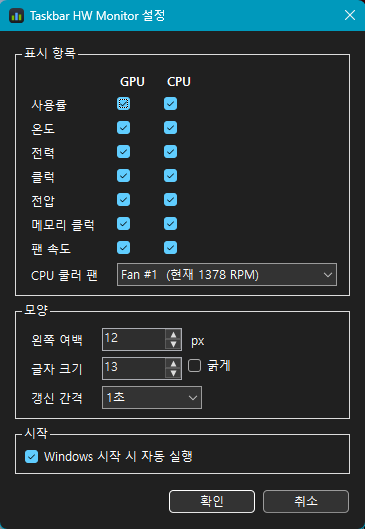
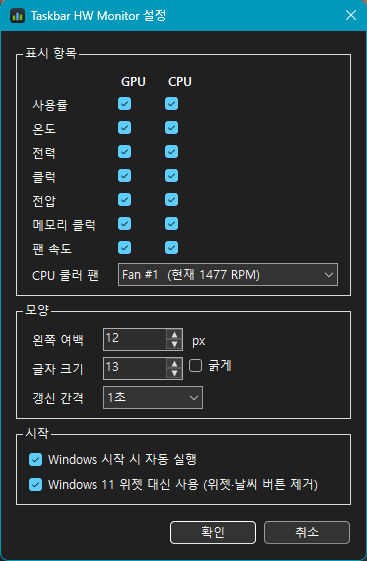
v1.1.0: Windows 11 위젯 대체 옵션
- 설치 옵션·설정 창에서 위젯 정책 끄기 + Web Experience Pack 제거 + 탐색기 재시작
- 앱 제거 시 이 앱이 제거한 경우에만 위젯 복원 (Store 페이지 안내)
- 왼쪽 정렬 태스크바에서는 알림 영역 왼쪽에 표시

Changed region(s): [[0.0, 0.0, 1.0, 0.9679], [0.0, 0.0605, 1.0, 1.0], [0.6932, 0.9376, 0.7233, 0.9679]]

diff --git a/app/Widgets.cs b/app/Widgets.cs
@@ -1,0 +1,95 @@
+using System.Diagnostics;
+using Microsoft.Win32;
+
+namespace TaskbarHwMon;
+
+/// <summary>
+/// Windows 11 위젯(날씨 버튼) 제거·복원. 위젯 버튼 자리를 이 앱이 대신 쓰도록 한다.
+/// 제거: 정책 AllowNewsAndInterests=0 + Windows Web Experience Pack 제거 + 탐색기 재시작.
+/// 복원: 이 앱이 제거한 경우에만 정책을 되돌리고, 패키지가 없으면 Microsoft Store 페이지를 연다.
+/// </summary>
+static class Widgets
+{
+    const string PolicyKey = @"SOFTWARE\Policies\Microsoft\Dsh";
+    const string PolicyValue = "AllowNewsAndInterests";
+    const string MarkerKey = @"SOFTWARE\TaskbarHwMon";
+    const string MarkerValue = "ReplacedWidgets";
+    const string StoreProductId = "9MSSGKG348SP"; // Windows Web Experience Pack
+
+    public static bool IsDisabled()
+    {
+        using var k = Registry.LocalMachine.OpenSubKey(PolicyKey);
+        return k?.GetValue(PolicyValue) is int v && v == 0;
+    }
+
+    static bool ReplacedByUs()
+    {
+        using var k = Registry.LocalMachine.OpenSubKey(MarkerKey);
+        return k?.GetValue(MarkerValue) is int v && v == 1;
+    }
+
+    public static void Replace()
+    {
+        using (var k = Registry.LocalMachine.CreateSubKey(PolicyKey))
+            k.SetValue(PolicyValue, 0, RegistryValueKind.DWord);
+        using (var k = Registry.LocalMachine.CreateSubKey(MarkerKey))
+            k.SetValue(MarkerValue, 1, RegistryValueKind.DWord);
+
+        // Appx 모듈은 Windows PowerShell 5.1에서 바로 동작
+        PowerShell("""
+            Get-Process Widgets, WidgetService -ErrorAction SilentlyContinue | Stop-Process -Force
+            Get-AppxPackage -AllUsers *WebExperience* | Remove-AppxPackage -AllUsers -ErrorAction SilentlyContinue
+            Get-AppxProvisionedPackage -Online | Where-Object DisplayName -like '*WebExperience*' |
+                Remove-AppxProvisionedPackage -Online -ErrorAction SilentlyContinue | Out-Null
+            """);
+        RestartExplorer();
+    }
+
+    /// <param name="onlyIfOurs">제거 시: 이 앱이 위젯을 없앤 경우에만 되돌린다.</param>
+    public static void Restore(bool onlyIfOurs)
+    {
+        if (onlyIfOurs && !ReplacedByUs()) return;
+
+        using (var k = Registry.LocalMachine.OpenSubKey(PolicyKey, writable: true))
+            k?.DeleteValue(PolicyValue, throwOnMissingValue: false);
+        Registry.LocalMachine.DeleteSubKeyTree(MarkerKey, throwOnMissingSubKey: false);
+        RestartExplorer();
+
+        if (PowerShell("if (Get-AppxPackage -AllUsers *WebExperience*) { exit 0 } else { exit 1 }") != 0)
+        {
+            try { Process.Start(new ProcessStartInfo($"ms-windows-store://pdp/?ProductId={StoreProductId}") { UseShellExecute = true }); }
+            catch { }
+        }
+    }
+
+    static int PowerShell(string script)
+    {
+        try
+        {
+            var psi = new ProcessStartInfo("powershell.exe") { UseShellExecute = false, CreateNoWindow = true };
+            foreach (var a in new[] { "-NoProfile", "-NonInteractive", "-ExecutionPolicy", "Bypass", "-Command", script })
+                psi.ArgumentList.Add(a);
+            using var p = Process.Start(psi)!;
+            p.WaitForExit(120_000);
+            return p.HasExited ? p.ExitCode : -1;
+        }
+        catch { return -1; }
+    }
+
+    /// <summary>정책을 반영하려면 탐색기를 재시작해야 한다. Winlogon이 일반 권한으로 다시 띄운다.</summary>
+    static void RestartExplorer()
+    {
+        foreach (var p in Process.GetProcessesByName("explorer"))
+        {
+            try { p.Kill(); } catch { }
+            p.Dispose();
+        }
+        for (int i = 0; i < 20; i++)
+        {
+            Thread.Sleep(250);
+            if (Native.FindWindow("Shell_TrayWnd", null) != IntPtr.Zero) return;
+        }
+        // 자동 재시작이 꺼진 환경 대비
+        try { Process.Start(new ProcessStartInfo("explorer.exe") { UseShellExecute = true }); } catch { }
+    }
+}

diff --git a/app/SettingsForm.cs b/app/SettingsForm.cs
@@ -12,6 +12,7 @@ sealed class SettingsForm : Form
     readonly CheckBox _bold = new() { Text = "굵게", AutoSize = true };
     readonly ComboBox _interval = new() { DropDownStyle = ComboBoxStyle.DropDownList, Width = 100 };
     readonly CheckBox _autoStart = new() { Text = "Windows 시작 시 자동 실행", AutoSize = true };
+    readonly CheckBox _widgets = new() { Text = "Windows 11 위젯 대신 사용 (위젯·날씨 버튼 제거)", AutoSize = true };
     static readonly int[] Intervals = [500, 1000, 2000, 5000];
     bool _loading = true, _saved;
 
@@ -46,7 +47,10 @@ sealed class SettingsForm : Form
         var root = new TableLayoutPanel { ColumnCount = 1, AutoSize = true, Dock = DockStyle.Fill };
         root.Controls.Add(Group("표시 항목", BuildItems()));
         root.Controls.Add(Group("모양", BuildLook()));
-        root.Controls.Add(Group("시작", _autoStart));
+        var start = new FlowLayoutPanel { FlowDirection = FlowDirection.TopDown, AutoSize = true };
+        start.Controls.Add(_autoStart);
+        start.Controls.Add(_widgets);
+        root.Controls.Add(Group("시작", start));
         root.Controls.Add(BuildButtons());
         Controls.Add(root);
 
@@ -145,6 +149,7 @@ sealed class SettingsForm : Form
         int idx = Array.IndexOf(Intervals, _work.IntervalMs);
         _interval.SelectedIndex = idx >= 0 ? idx : 1;
         _autoStart.Checked = AutoStart.IsEnabledFor(Program.ExePath);
+        _widgets.Checked = Widgets.IsDisabled();
     }
 
     sealed record FanItem(string Name, float? Rpm)
@@ -171,7 +176,20 @@ sealed class SettingsForm : Form
         bool enabled = AutoStart.IsEnabledFor(Program.ExePath);
         if (_autoStart.Checked && !enabled) AutoStart.Enable(Program.ExePath);
         else if (!_autoStart.Checked && enabled) AutoStart.Disable();
+        if (_widgets.Checked != Widgets.IsDisabled() && ConfirmWidgets(_widgets.Checked))
+        {
+            bool replace = _widgets.Checked;
+            Task.Run(() => { if (replace) Widgets.Replace(); else Widgets.Restore(onlyIfOurs: false); });
+        }
         Close();
+    }
+
+    bool ConfirmWidgets(bool replace)
+    {
+        string msg = replace
+            ? "Windows 11 위젯(날씨 버튼)을 제거하고 그 자리에 표시합니다.\n\n위젯 정책을 끄고 Windows Web Experience Pack을 삭제하며, 적용을 위해 탐색기가 잠깐 다시 시작됩니다.\n계속할까요?"
+            : "Windows 11 위젯을 다시 켭니다.\n\n탐색기가 잠깐 다시 시작되며, 위젯 패키지가 없으면 Microsoft Store가 열립니다.\n계속할까요?";
+        return MessageBox.Show(this, msg, Program.AppName, MessageBoxButtons.OKCancel, MessageBoxIcon.Question) == DialogResult.OK;
     }
 
     protected override void OnFormClosed(FormClosedEventArgs e)

diff --git a/app/OverlayForm.cs b/app/OverlayForm.cs
@@ -100,6 +100,13 @@ sealed class OverlayForm : Form
         int rows = (RowVisible(true) ? 1 : 0) + (RowVisible(false) ? 1 : 0);
         int w = Math.Max(1, _width), h = Math.Max(1, _rowH * rows);
         int x0 = (int)(_config.OffsetX * _scale);
+        // 왼쪽 정렬 태스크바에서는 시작 버튼과 겹치므로 알림 영역 왼쪽에 붙인다
+        if (!Native.TaskbarCentered())
+        {
+            IntPtr notify = Native.FindWindowEx(_tray, IntPtr.Zero, "TrayNotifyWnd", null);
+            if (notify != IntPtr.Zero && Native.GetWindowRect(notify, out var nr) && Native.GetWindowRect(_tray, out var tr2))
+                x0 = nr.Left - tr2.Left - w - x0;
+        }
         int y0 = Math.Max(0, (rc.Bottom - h) / 2);
         Native.SetWindowPos(Handle, Native.HWND_TOP, x0, y0, w, h, Native.SWP_NOACTIVATE | Native.SWP_SHOWWINDOW);
         SampleKey(x0 + w, rc.Bottom / 2);

diff --git a/app/Native.cs b/app/Native.cs
@@ -40,6 +40,15 @@ static class Native
         finally { ReleaseDC(IntPtr.Zero, dc); }
     }
 
+    [DllImport("user32.dll", CharSet = CharSet.Unicode)] public static extern IntPtr FindWindowEx(IntPtr parent, IntPtr after, string? cls, string? title);
+
+    /// <summary>Windows 11 기본값(값 없음)은 가운데 정렬.</summary>
+    public static bool TaskbarCentered()
+    {
+        using var k = Microsoft.Win32.Registry.CurrentUser.OpenSubKey(@"Software\Microsoft\Windows\CurrentVersion\Explorer\Advanced");
+        return k?.GetValue("TaskbarAl") is not int v || v != 0;
+    }
+
     public static bool SystemUsesLightTheme()
     {
         using var k = Microsoft.Win32.Registry.CurrentUser.OpenSubKey(@"Software\Microsoft\Windows\CurrentVersion\Themes\Personalize");

diff --git a/app/Program.cs b/app/Program.cs
@@ -20,6 +20,8 @@ static class Program
         // 설치 프로그램에서 호출 (관리자 권한으로 실행됨)
         if (args.Contains("--register-autostart")) return AutoStart.Enable(ExePath) ? 0 : 1;
         if (args.Contains("--unregister-autostart")) { AutoStart.Disable(); return 0; }
+        if (args.Contains("--replace-widgets")) { Widgets.Replace(); return 0; }
+        if (args.Contains("--restore-widgets")) { Widgets.Restore(onlyIfOurs: true); return 0; }
 
         bool openSettings = args.Contains("--settings");
 

diff --git a/README.md b/README.md
@@ -13,6 +13,8 @@ Windows 11 태스크바 왼쪽 빈 공간에 GPU·CPU 상태를 실시간으로 
 - 태스크바의 자식 창으로 붙기 때문에 전체 화면 게임에서는 태스크바와 함께 자동으로 숨겨집니다.
 - 배경은 실제 태스크바 색을 읽어 투명 처리하고 ClearType으로 그려서 글자가 선명합니다.
 - 탐색기가 재시작되어도 2초 안에 태스크바에 다시 붙습니다.
+- **Windows 11 위젯(날씨) 대체:** 위젯 버튼이 있던 왼쪽 자리를 대신 쓸 수 있습니다. 아래 [위젯 대체](#windows-11-위젯-대체)를 참고하세요.
+- 작업 표시줄이 왼쪽 정렬이면 시작 버튼과 겹치지 않도록 알림 영역 왼쪽에 표시됩니다.
 
 ## 설치
 
@@ -43,6 +45,18 @@ Windows 11 태스크바 왼쪽 빈 공간에 GPU·CPU 상태를 실시간으로 
 | 갱신 간격 | 0.5 / 1 / 2 / 5초 |
 
 설정 파일은 `%APPDATA%\TaskbarHwMon\config.json`에 저장됩니다.
+
+## Windows 11 위젯 대체
+
+설치할 때 **Windows 11 위젯 대신 사용**을 선택하거나, 설정 창의 같은 이름의 항목을 켜면 다음 작업을 합니다.
+
+1. 정책 `HKLM\SOFTWARE\Policies\Microsoft\Dsh\AllowNewsAndInterests = 0`을 설정해 위젯 버튼과 날씨를 끕니다.
+2. Windows Web Experience Pack(`MicrosoftWindows.Client.WebExperience`)을 모든 사용자에게서 제거하고, 새 사용자에게도 설치되지 않도록 프로비저닝에서도 뺍니다.
+3. 적용을 위해 탐색기를 다시 시작합니다. 열려 있는 파일 탐색기 창은 닫힙니다.
+
+되돌리기:
+- 설정 창에서 항목을 끄면 정책을 지우고 탐색기를 다시 시작합니다. 위젯 패키지가 없으면 Microsoft Store의 Windows Web Experience Pack 페이지가 열리니 거기서 설치하면 됩니다.
+- 앱을 제거하면, 이 앱이 위젯을 제거했던 경우에만 같은 방식으로 되돌립니다.
 
 ### 참고
 
